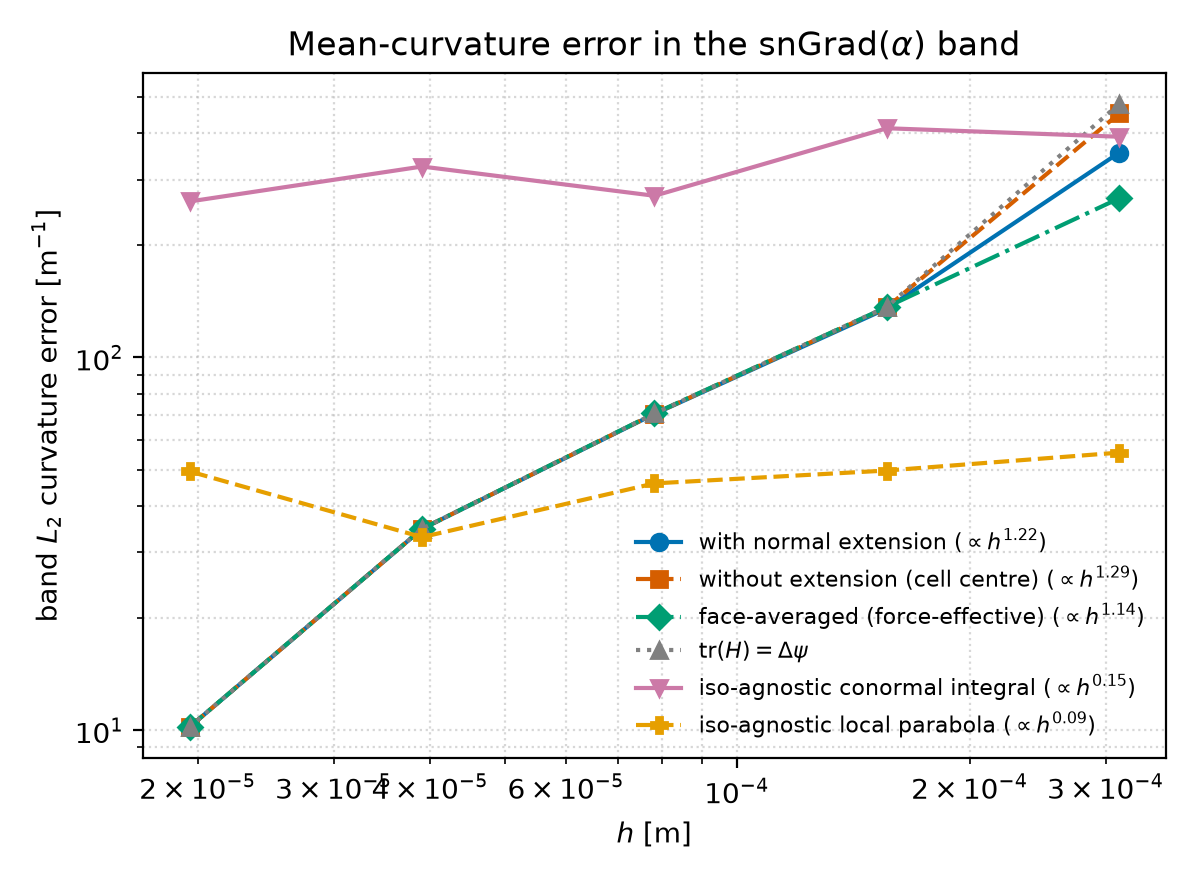
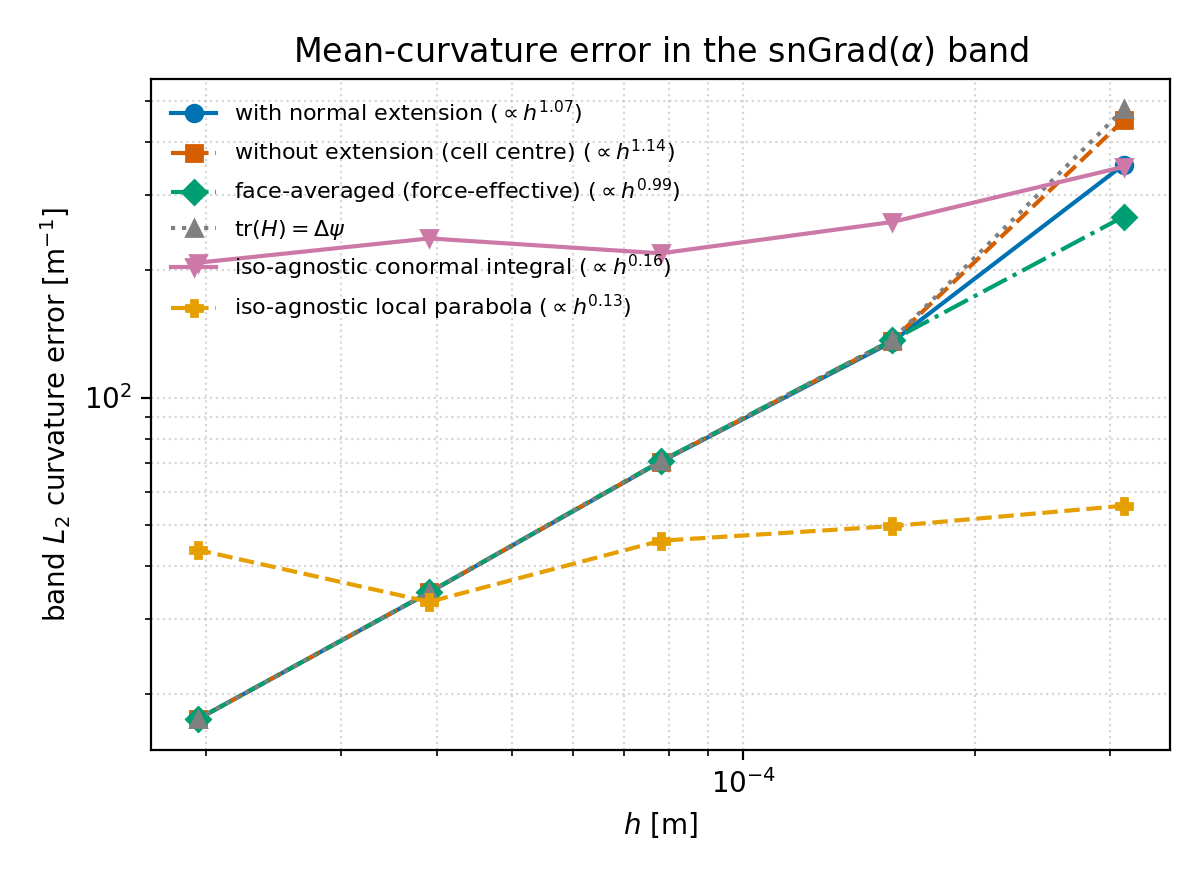
plane LSQ: scale-free degeneracy guard (the absolute-coordinate test silently zeroed every N=512 band plane)
The Hadamard ratio |det|/prod(diag) was computed on the absolute-coordinate
normal-equations matrix, where it shrinks like (h/|x|)^4 under refinement: at
N=512 on the 0.01 m droplet box the guard returned the flat-plane fallback for
EVERY band cell, degrading the geometric/Detrixhe-Aslam indicators to sign(psi)
(the snGrad(alpha) band halved) and silently disabling the plane-based
curvature models (foot-point height function, connectedInterface). The guard
now tests a centered, variance-normalized copy of the matrix -- a scale-free
shape measure of the stencil cloud -- while the solve is untouched, so every
previously passing cell is byte-identical (verified: the refreshed
curvatureDroplet2D table changes in the N=512 row only, 580 -> 992 band cells;
the old 10.2 1/m error was biased low by the corrupted narrow band, the honest
full-band value is 17.4). Known limit documented at the solve: far-from-origin
meshes (|x|/h >~ 1e7) would need the centered-coordinate solve, deferred until
it can land with a phase-indicator gate revalidation.

Changed region(s): [[0.0308, 0.0307, 0.9867, 0.9205], [0.4933, 0.9205, 0.5858, 0.9511], [0.6475, 0.1534, 0.7092, 0.1841]]

diff --git a/src/leiaLevelSet/phaseIndicator/levelSetPlaneReconstruction.C b/src/leiaLevelSet/phaseIndicator/levelSetPlaneReconstruction.C
@@ -206,32 +206,132 @@ Foam::scalarList Foam::leastSquaresPlaneCoeffs
     // narrow-band cell can have a face-neighbour cloud whose centres are (near)
     // coplanar, making the 4x4 LLSQ system rank-deficient; simpleMatrix::solve()
     // then divides by a ~0 pivot and returns non-finite coefficients, which blow
-    // up downstream (nc/|nc| = inf/inf = NaN -> SIGFPE). Detect this with a
-    // scale-free Hadamard ratio |det|/prod(diag) (~1 for well-spread rows, -> 0
-    // for a coplanar/degenerate cloud) and return a flat (zero) plane; the
-    // callers treat |n| ~ 0 as "degenerate" and fall back to the sign of psi.
-    // Well-conditioned (e.g. hexahedral) cells have |det|/prod(diag) ~ O(1e-2),
-    // far above the threshold, so their fit is untouched (bit-identical).
+    // up downstream (nc/|nc| = inf/inf = NaN -> SIGFPE). Detect this with the
+    // Hadamard ratio |det|/prod(diag) (~1 for well-spread rows, -> 0 for a
+    // coplanar/degenerate cloud) and return a flat (zero) plane; the callers
+    // treat |n| ~ 0 as "degenerate" and fall back to the sign of psi.
+    //
+    // The test matrix is assembled in CENTERED coordinates (displacements from
+    // the cell centre), NOT from LLSQ itself: with the absolute coordinates of
+    // the solve matrix the ratio shrinks like (h/|x|)^4 as the mesh refines --
+    // the columns (x, y, 1) become collinear -- and a fixed threshold misfires
+    // on perfectly regular stencils (measured: every N=512 band cell of the
+    // 0.01 m stationary-droplet case returned the flat-plane fallback, killing
+    // the plane-based phase indicators and curvature models at fine h).
+    // Centered displacements make the ratio a pure shape measure of the
+    // neighbour cloud: scale-free, ~O(1e-1) on hexahedral stencils at any N,
+    // -> 0 exactly for the coplanar clouds the guard exists to catch. The
+    // SOLVE still uses the absolute system, so every cell that passed before
+    // keeps byte-identical coefficients.
+    scalar Mc[4][4] = {{0}};
+    {
+        const vector& xc = cellCenters[cellI];
+
+        auto addSample = [&](const vector& x)
+        {
+            const vector dx = x - xc;
+            for (char row = 0; row < 3; ++row)
+            {
+                for (char col = 0; col < 3; ++col)
+                {
+                    Mc[row][col] += dx[col]*dx[row];
+                }
+                Mc[row][3] += dx[row];
+                Mc[3][row] += dx[row];
+            }
+            Mc[3][3] += 1;
+        };
+
+        addSample(cellCenters[cellI]);
+        forAll(Nc, cellK)
+        {
+            addSample(cellCenters[Nc[cellK]]);
+        }
+        forAll(nBandCell, faceI)
+        {
+            const label faceJ = nBandCell[faceI];
+            if (mesh.isInternalFace(faceJ))
+            {
+                continue;
+            }
+            const label patchL = pbm.whichPatch(faceJ);
+            if ((patchL < 0) || !coupledNei.valid(patchL))
+            {
+                continue;
+            }
+            addSample(coupledNei.C(patchL)[faceJ - pbm[patchL].start()]);
+        }
+
+        // Same empty-direction pinning as the solve matrix.
+        for (direction cmpt = 0; cmpt < 3; ++cmpt)
+        {
+            if (geomD[cmpt] < 0)
+            {
+                for (label k = 0; k < 4; ++k)
+                {
+                    Mc[cmpt][k] = 0;
+                    Mc[k][cmpt] = 0;
+                }
+                Mc[cmpt][cmpt] = 1;
+            }
+        }
+
+        // Scale away the mixed length dimensions so the ratio compares like
+        // with like: row/column 0..2 carry one length factor each relative to
+        // row/column 3. Normalising by the mean squared displacement makes
+        // every entry O(1) on a healthy stencil.
+        scalar h2 = 0;
+        label nS = 0;
+        for (direction cmpt = 0; cmpt < 3; ++cmpt)
+        {
+            if (geomD[cmpt] > 0) { h2 += Mc[cmpt][cmpt]; ++nS; }
+        }
+        h2 = (nS > 0 && Mc[3][3] > 0) ? h2/(nS*Mc[3][3]) : 0;
+        if (h2 <= VSMALL)
+        {
+            return scalarList(4, scalar(0));   // all samples coincide
+        }
+        const scalar hs = Foam::sqrt(h2);
+        for (direction cmpt = 0; cmpt < 3; ++cmpt)
+        {
+            if (geomD[cmpt] < 0) { continue; }
+            for (label k = 0; k < 4; ++k)
+            {
+                Mc[cmpt][k] /= hs;
+                Mc[k][cmpt] /= hs;
+            }
+        }
+    }
+
     const scalar diagProd =
-        LLSQ(0, 0)*LLSQ(1, 1)*LLSQ(2, 2)*LLSQ(3, 3);
+        Mc[0][0]*Mc[1][1]*Mc[2][2]*Mc[3][3];
     const scalar detLLSQ =
-        LLSQ(0, 0)*det3x3(LLSQ(1,1),LLSQ(1,2),LLSQ(1,3),
-                          LLSQ(2,1),LLSQ(2,2),LLSQ(2,3),
-                          LLSQ(3,1),LLSQ(3,2),LLSQ(3,3))
-      - LLSQ(0, 1)*det3x3(LLSQ(1,0),LLSQ(1,2),LLSQ(1,3),
-                          LLSQ(2,0),LLSQ(2,2),LLSQ(2,3),
-                          LLSQ(3,0),LLSQ(3,2),LLSQ(3,3))
-      + LLSQ(0, 2)*det3x3(LLSQ(1,0),LLSQ(1,1),LLSQ(1,3),
-                          LLSQ(2,0),LLSQ(2,1),LLSQ(2,3),
-                          LLSQ(3,0),LLSQ(3,1),LLSQ(3,3))
-      - LLSQ(0, 3)*det3x3(LLSQ(1,0),LLSQ(1,1),LLSQ(1,2),
-                          LLSQ(2,0),LLSQ(2,1),LLSQ(2,2),
-                          LLSQ(3,0),LLSQ(3,1),LLSQ(3,2));
+        Mc[0][0]*det3x3(Mc[1][1],Mc[1][2],Mc[1][3],
+                        Mc[2][1],Mc[2][2],Mc[2][3],
+                        Mc[3][1],Mc[3][2],Mc[3][3])
+      - Mc[0][1]*det3x3(Mc[1][0],Mc[1][2],Mc[1][3],
+                        Mc[2][0],Mc[2][2],Mc[2][3],
+                        Mc[3][0],Mc[3][2],Mc[3][3])
+      + Mc[0][2]*det3x3(Mc[1][0],Mc[1][1],Mc[1][3],
+                        Mc[2][0],Mc[2][1],Mc[2][3],
+                        Mc[3][0],Mc[3][1],Mc[3][3])
+      - Mc[0][3]*det3x3(Mc[1][0],Mc[1][1],Mc[1][2],
+                        Mc[2][0],Mc[2][1],Mc[2][2],
+                        Mc[3][0],Mc[3][1],Mc[3][2]);
     if (diagProd <= VSMALL || mag(detLLSQ) < 1e-10*mag(diagProd))
     {
         return scalarList(4, scalar(0));   // degenerate -> flat plane
     }
 
+    // KNOWN LIMIT: the shape test certifies the stencil cloud, not the
+    // conditioning of the ABSOLUTE-coordinate solve below, which degrades
+    // like (|x|/h)^2. Fine for domains near the origin (relative error
+    // ~1e-6 at |x|/h = 1e5); a mesh sitting ~1e7 cell sizes away from the
+    // coordinate origin would get finite-but-inaccurate normals that the
+    // isfinite backstop cannot catch. The clean fix -- assemble and solve in
+    // centered coordinates and shift d back -- changes every result at
+    // rounding level, so it must land together with a revalidation of the
+    // phase-indicator gates, not as a drive-by.
     planeCoeffs = LLSQ.solve(); // TODO: Improve this. Gauss substitution. TM.
 
     // Belt-and-suspenders: a near-singular (but above-threshold) solve can still

diff --git a/docs/semi-lagrangian-level-set/sl-level-set-article/data/tables/curvature_error.tex b/docs/semi-lagrangian-level-set/sl-level-set-article/data/tables/curvature_error.tex
@@ -7,8 +7,8 @@ $N$ & $h$ [m] & band cells & $\|\kappa-\kappa_e\|_{1}$ & $\|\kappa-\kappa_e\|_{2
 64 & 1.563e-04 & 120 & 1.148e+02 & 1.353e+02 & 13.5\% \\
 128 & 7.813e-05 & 248 & 6.032e+01 & 7.053e+01 & 7.1\% \\
 256 & 3.906e-05 & 496 & 2.983e+01 & 3.470e+01 & 3.5\% \\
-512 & 1.953e-05 & 580 & 8.899e+00 & 1.021e+01 & 1.0\% \\
+512 & 1.953e-05 & 992 & 1.512e+01 & 1.743e+01 & 1.7\% \\
 \midrule
-\multicolumn{6}{l}{\footnotesize Least-squares order of the $L_2$ curvature error in $h$: $p = 1.22$ ($R^2=0.987$); $\kappa_e=\sigma$-exact $=1000$ m$^{-1}$.} \\
+\multicolumn{6}{l}{\footnotesize Least-squares order of the $L_2$ curvature error in $h$: $p = 1.07$ ($R^2=0.995$); $\kappa_e=\sigma$-exact $=1000$ m$^{-1}$.} \\
 \bottomrule
 \end{tabular}

diff --git a/docs/semi-lagrangian-level-set/sl-level-set-presentation/data/tables/curvature_error.tex b/docs/semi-lagrangian-level-set/sl-level-set-presentation/data/tables/curvature_error.tex
@@ -7,8 +7,8 @@ $N$ & $h$ [m] & band cells & $\|\kappa-\kappa_e\|_{1}$ & $\|\kappa-\kappa_e\|_{2
 64 & 1.563e-04 & 120 & 1.148e+02 & 1.353e+02 & 13.5\% \\
 128 & 7.813e-05 & 248 & 6.032e+01 & 7.053e+01 & 7.1\% \\
 256 & 3.906e-05 & 496 & 2.983e+01 & 3.470e+01 & 3.5\% \\
-512 & 1.953e-05 & 580 & 8.899e+00 & 1.021e+01 & 1.0\% \\
+512 & 1.953e-05 & 992 & 1.512e+01 & 1.743e+01 & 1.7\% \\
 \midrule
-\multicolumn{6}{l}{\footnotesize Least-squares order of the $L_2$ curvature error in $h$: $p = 1.22$ ($R^2=0.987$); $\kappa_e=\sigma$-exact $=1000$ m$^{-1}$.} \\
+\multicolumn{6}{l}{\footnotesize Least-squares order of the $L_2$ curvature error in $h$: $p = 1.07$ ($R^2=0.995$); $\kappa_e=\sigma$-exact $=1000$ m$^{-1}$.} \\
 \bottomrule
 \end{tabular}
